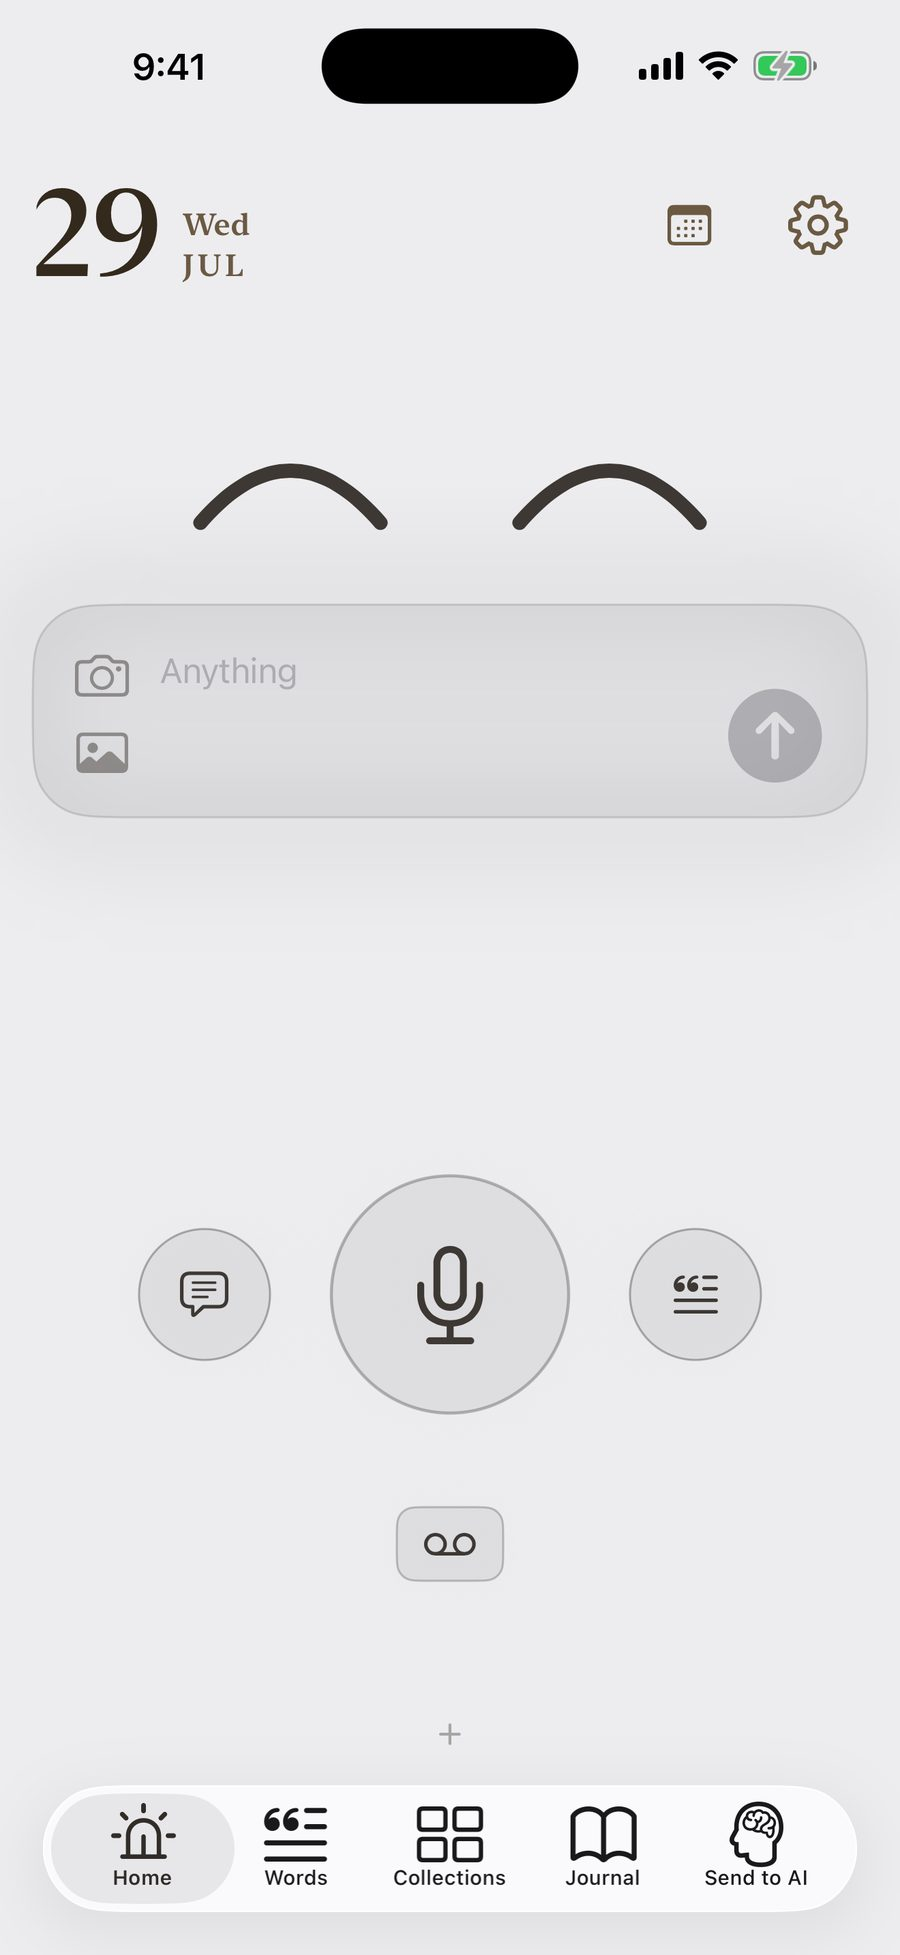
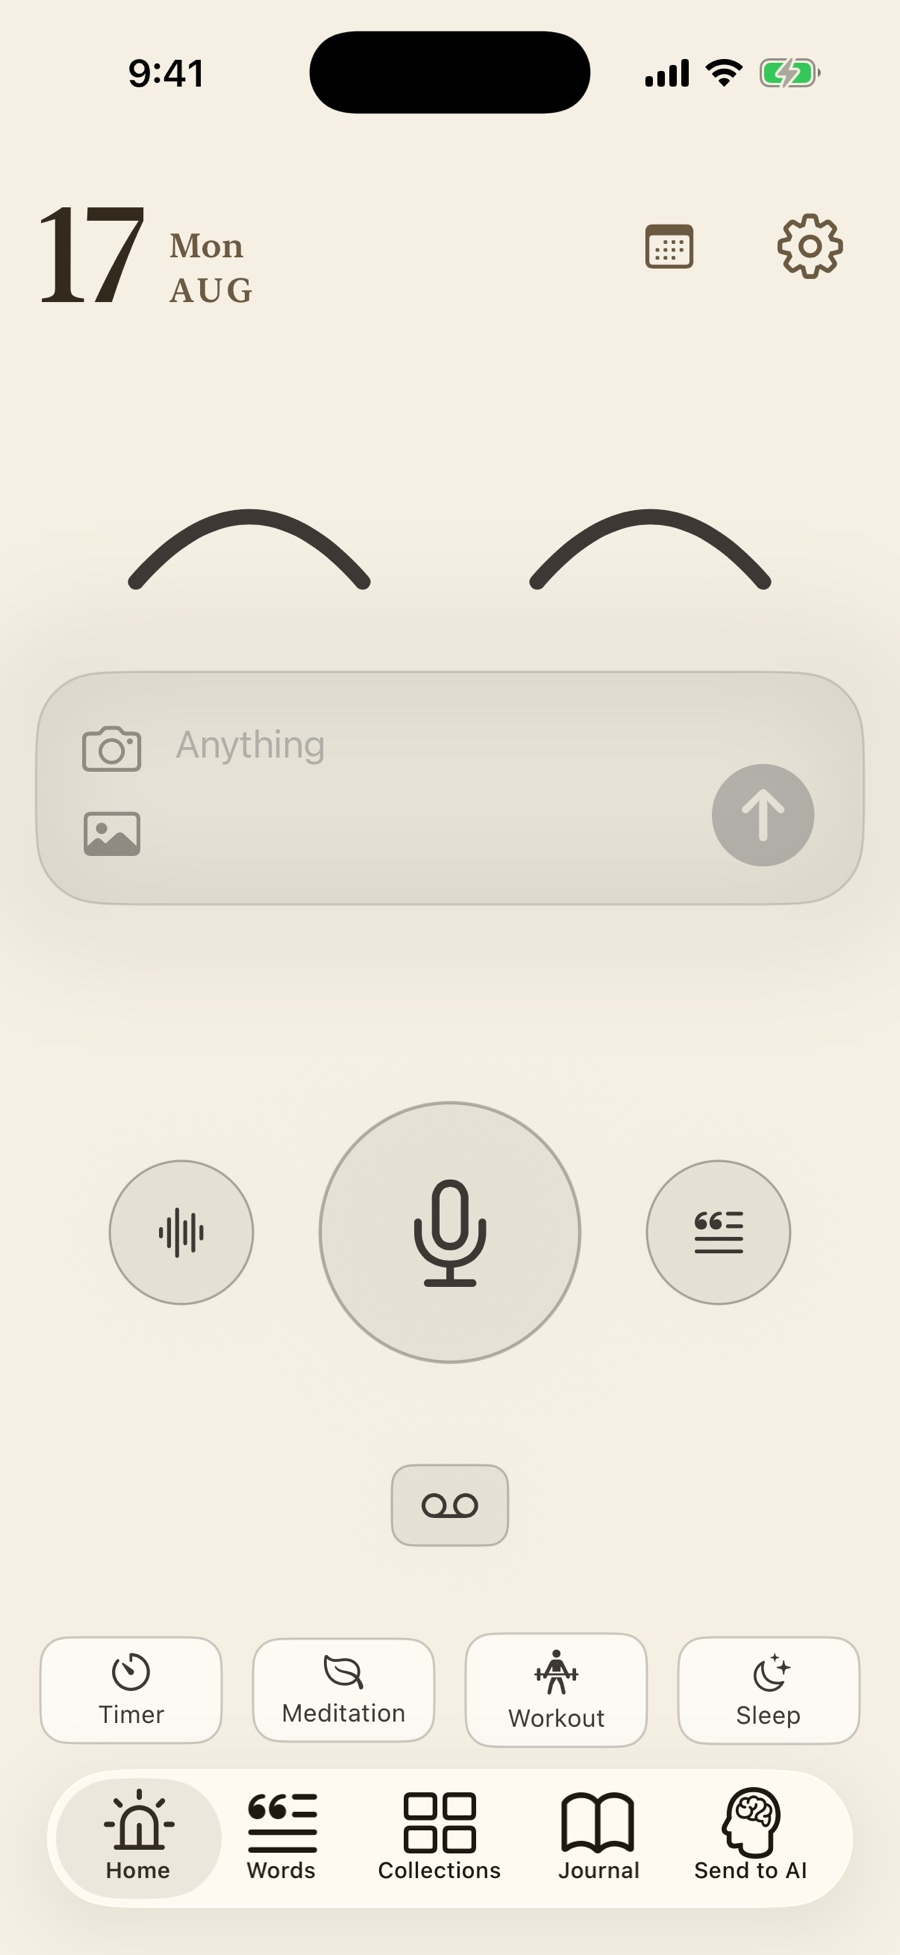
ホーム画面の英語スクリーンショットを更新

diff --git a/index.html b/index.html
@@ -714,7 +714,7 @@
         <p class="sub"><span data-i18n="ja">ぐちゃぐちゃに話して大丈夫。仕分けはAIの仕事です。</span><span data-i18n="en">Ramble all you want. Sorting it out is AI's job.</span><span data-i18n="ko">두서없이 말해도 괜찮아요. 분류는 AI의 일이에요.</span></p>
       </div>
       <div class="shots">
-        <div class="phone"><img src="img/shots/01_home_ja.jpg" data-shot="01_home" loading="lazy" decoding="async" data-alt-ja="ホーム画面。にっこりした目と入力欄、中央に大きな音声ボタン" data-alt-en="The home screen: a smiling pair of eyes, an input field, and a big voice button in the center." data-alt-ko="홈 화면. 방긋 웃는 눈과 입력창, 가운데 큰 음성 버튼" alt="ホーム画面。にっこりした目と入力欄、中央に大きな音声ボタン"></div>
+        <div class="phone"><img src="img/shots/01_home_en.jpg?v=20260817" loading="lazy" decoding="async" data-alt-ja="最新版のホーム画面。クリーム色の背景に、にっこりした目と音声ボタン" data-alt-en="The latest home screen in English, with a warm cream background, smiling eyes, and a large voice button." data-alt-ko="따뜻한 크림색 배경에 웃는 눈과 큰 음성 버튼이 있는 최신 홈 화면" alt="最新版の英語ホーム画面。クリーム色の背景に、にっこりした目と音声ボタン"></div>
       </div>
     </div>
   </div>
